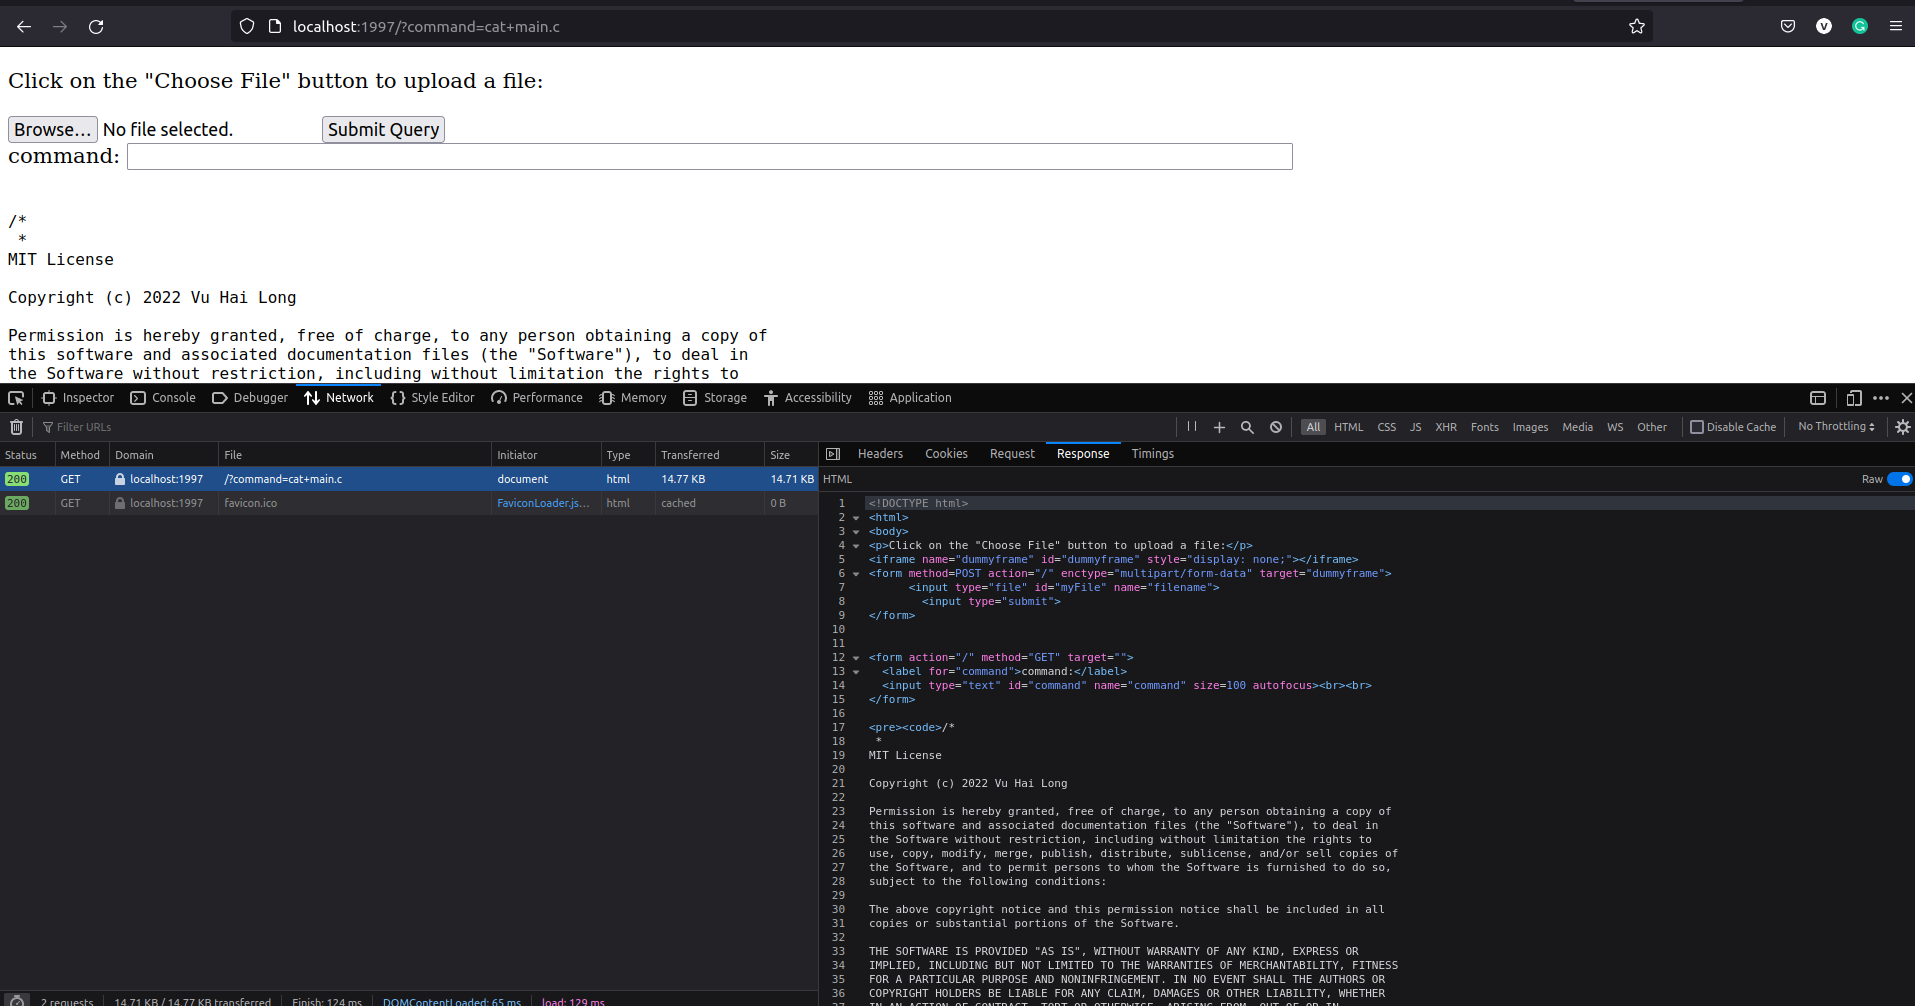
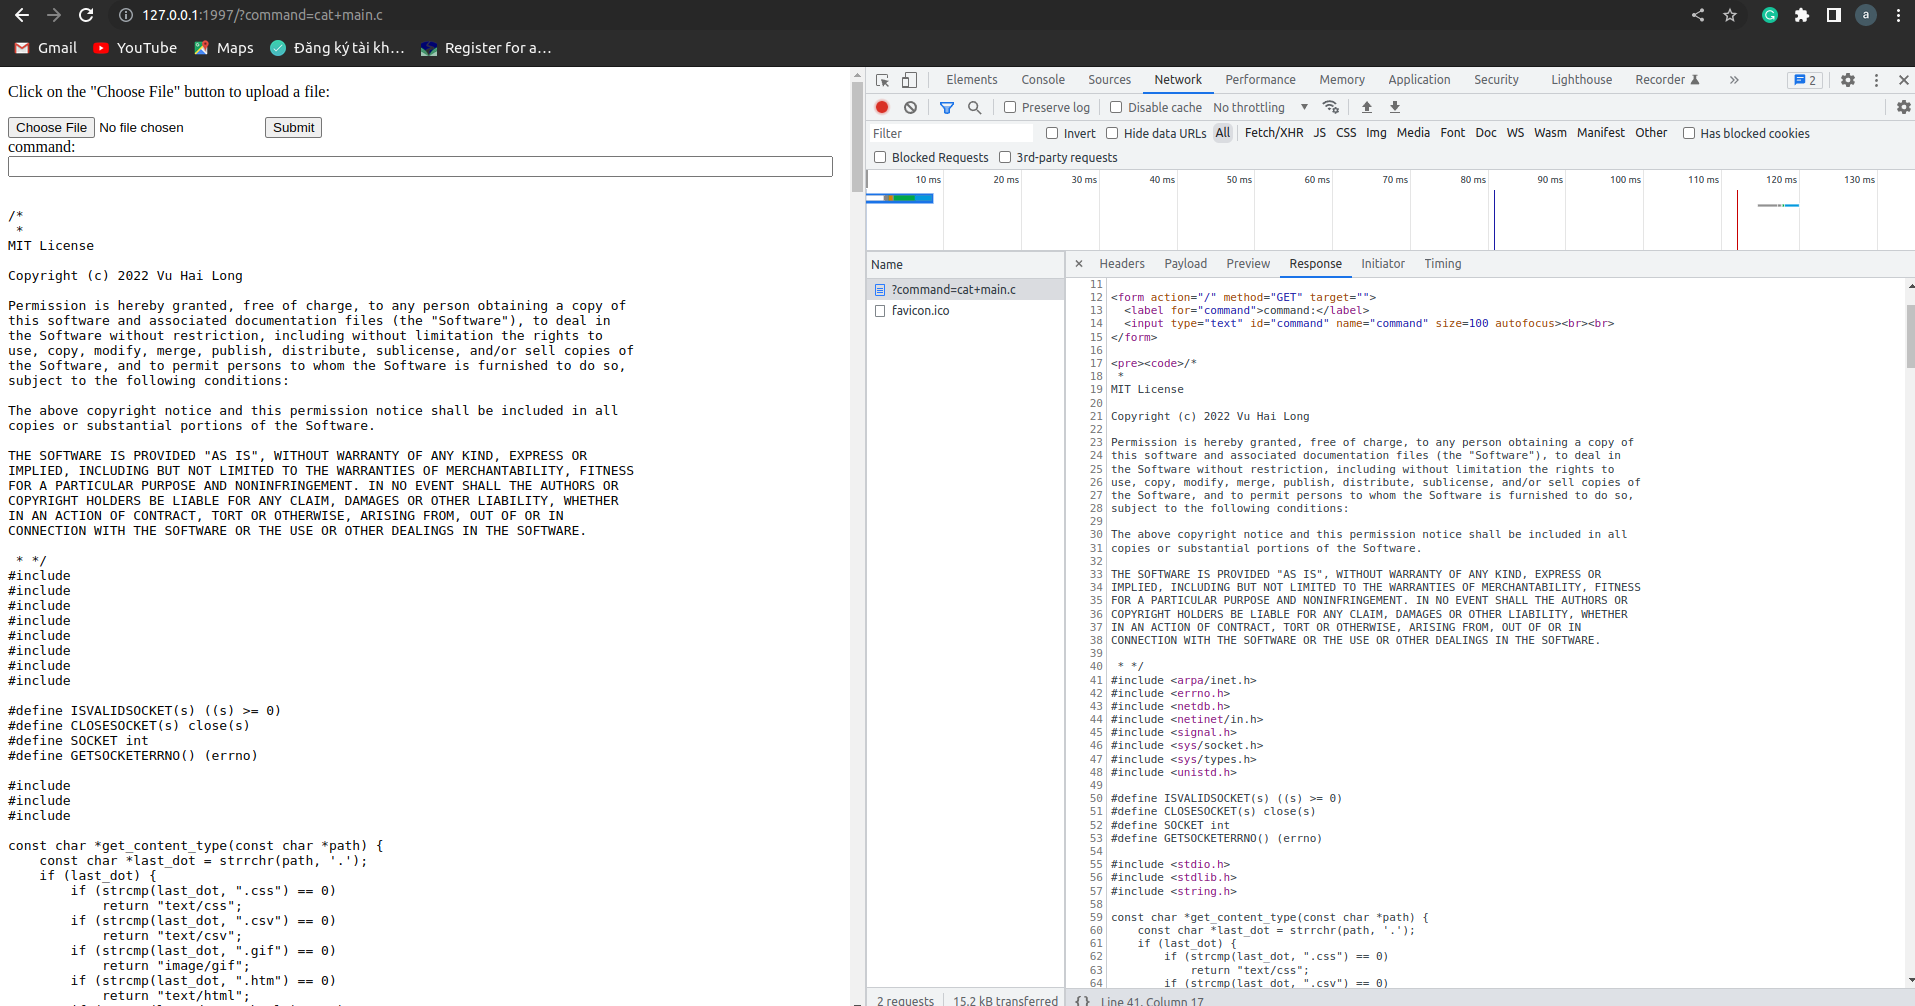
fix image wrongly display

diff --git a/README.md b/README.md
@@ -30,6 +30,6 @@ from host open 192.168.0.1:1997 on your browser
 
 * To view original file (with some special characters in text which make html [encoded](https://www.w3schools.com/tags/ref_urlencode.ASP) -> go to inspector-> network->  response ( in raw mode if needed)
 
-![view_raw_data](assets/view_rawdata.png.png)
+![view_raw_data](assets/view_rawdata.png)
 
 
